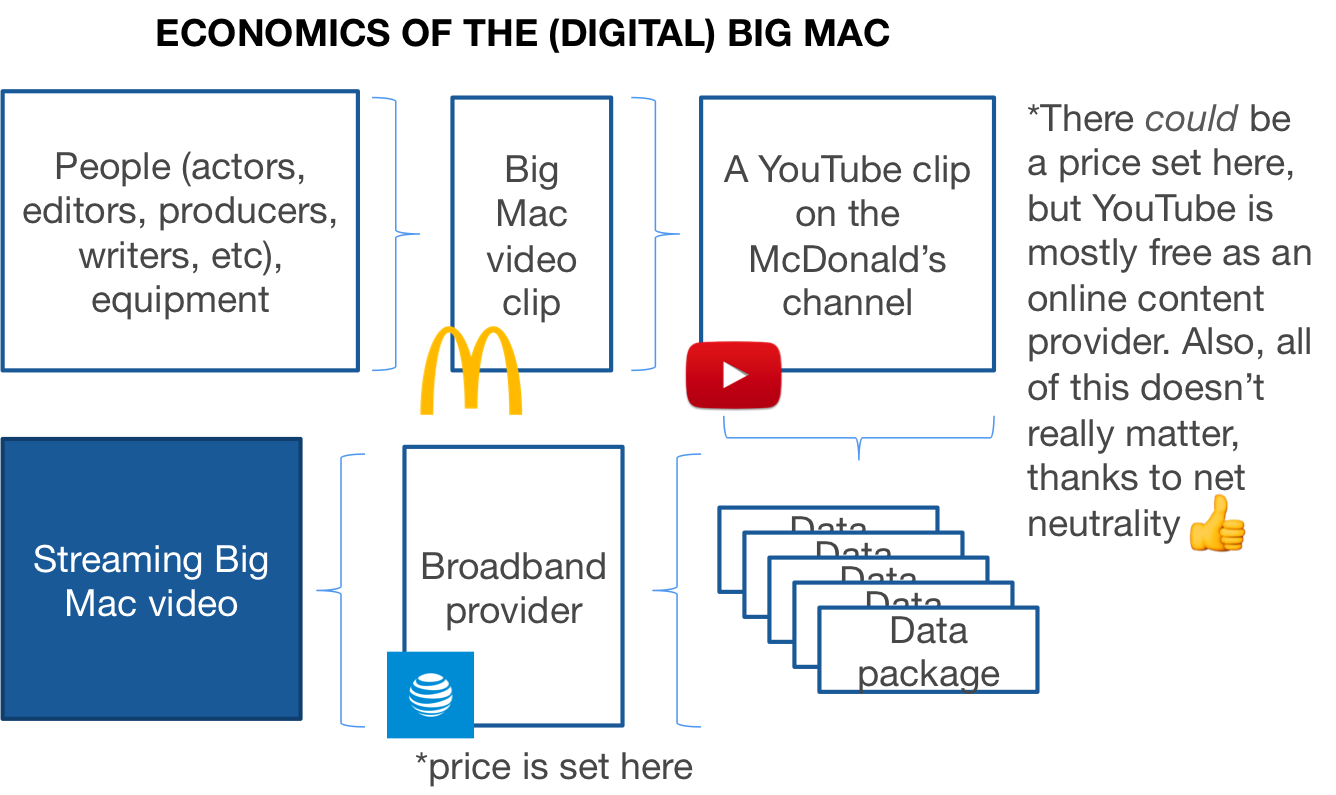
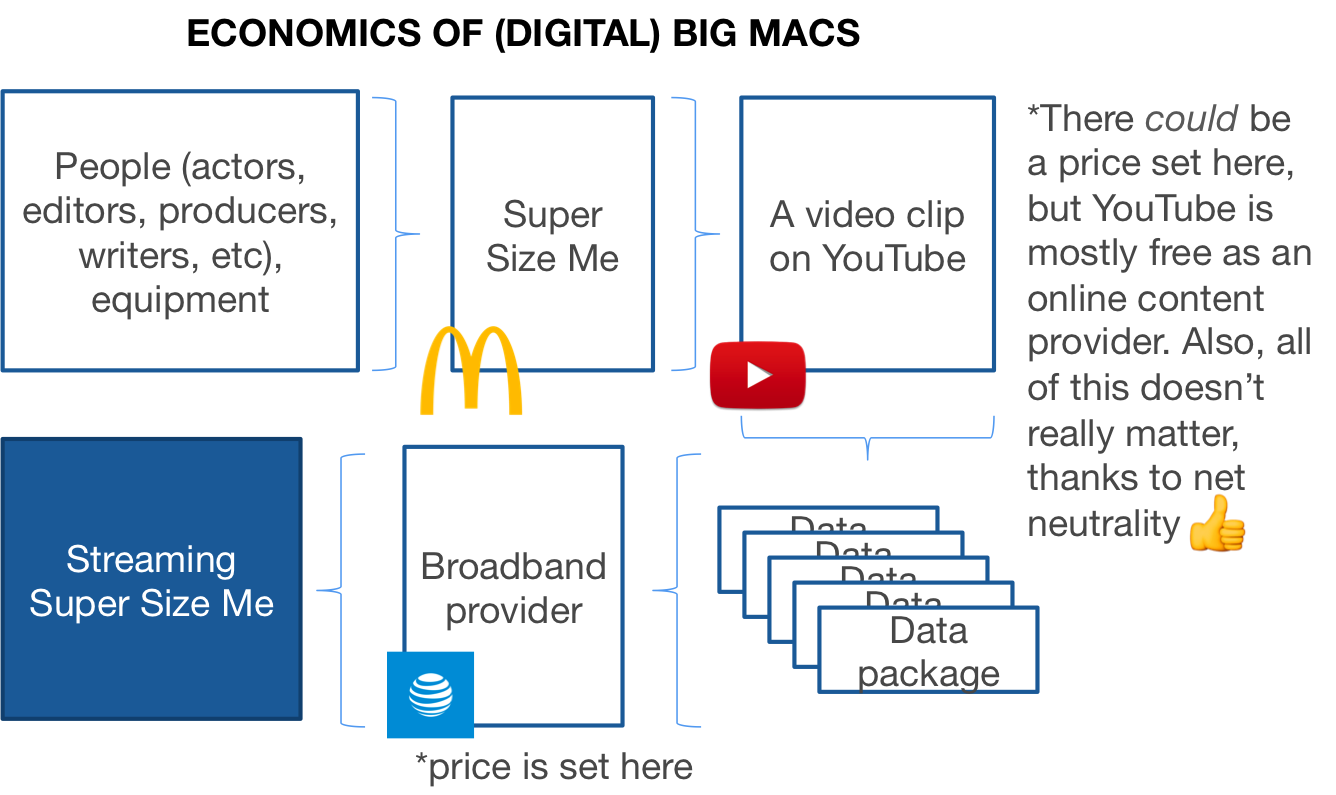
updated infographic, map, some text changes

Changed region(s): [[0.3683, 0.1208, 0.7365, 0.5434], [0.0921, 0.0, 0.6751, 0.0604], [0.0307, 0.6642, 0.2148, 0.7849]]

diff --git a/index.html b/index.html
@@ -17,15 +17,15 @@
 		</br>
 
 		<div>
-			<iframe id="datawrapper-chart-vvHjW" src="//datawrapper.dwcdn.net/vvHjW/6/" frameborder="0" allowtransparency="true" allowfullscreen="allowfullscreen" webkitallowfullscreen="webkitallowfullscreen" mozallowfullscreen="mozallowfullscreen" oallowfullscreen="oallowfullscreen" msallowfullscreen="msallowfullscreen" width="100%" height="600"></iframe><script type="text/javascript">var embedDeltas={"100":744.33334,"200":658.33334,"300":642.33334,"400":616.33334,"500":600.33334,"600":600.33334,"700":600.33334,"800":600.33334,"900":600.33334,"1000":600.33334},chart=document.getElementById("datawrapper-chart-vvHjW"),chartWidth=chart.offsetWidth,applyDelta=embedDeltas[Math.min(1000, Math.max(100*(Math.floor(chartWidth/100)), 100))]||0,newHeight=applyDelta;chart.style.height=newHeight+"px";</script>
+			<iframe id="datawrapper-chart-vvHjW" src="//datawrapper.dwcdn.net/vvHjW/7/" frameborder="0" allowtransparency="true" allowfullscreen="allowfullscreen" webkitallowfullscreen="webkitallowfullscreen" mozallowfullscreen="mozallowfullscreen" oallowfullscreen="oallowfullscreen" msallowfullscreen="msallowfullscreen" width="100%" height="600"></iframe><script type="text/javascript">var embedDeltas={"100":988.33334,"200":734.33334,"300":673.33334,"400":631.33334,"500":616.33334,"600":600.33334,"700":600.33334,"800":586.33334,"900":586.33334,"1000":586.33334},chart=document.getElementById("datawrapper-chart-vvHjW"),chartWidth=chart.offsetWidth,applyDelta=embedDeltas[Math.min(1000, Math.max(100*(Math.floor(chartWidth/100)), 100))]||0,newHeight=applyDelta;chart.style.height=newHeight+"px";</script>
 		</div>
 	</br>
 
-		<h3>Why the Big Mac commercial?</h3>
+		<h3>Why Super Size Me, and why "Big Mac index"?</h3>
 
 		<p>Since 1986, The Economist has been publishing what they call the “Big Mac index”. By comparing at the average prices of the Big Mac in different countries’ McDonald locations, and using market exchange rates, the index shows in which countries the Big Mac is overvalued or undervalued. In a light-hearted way, it tests the purchasing-power parity theory, which says that eventually exchange rates should move towards the rate that would equalise the prices of an identical basket of goods and services in any two countries. 
 
-		For our index above, we compare the prices of digitally consuming a 60-s video clip of a Big Mac in countries around the world.</p>
+		<p>For our index above, we compare the prices of digitally consuming <i>Super Size Me</i>, a documentary about a man who only ate from McDonald's menu for an entire month. </p>
 
 		<h3>Where does this comparison fall apart?</h3>
 
@@ -62,8 +62,7 @@
 		Assumptions and sources
 		<ul class="hanging_indent">
 			<li>All of the mobile-broadband pricing data comes from the ITU. They are 2014 average prices, postpaid, handset-based, 500MB. More details on this can be found in the ITU's Measuring the Information Society Report</li>
-			<li>We follow the UN’s grouping of countries by “developing”, “least developed”, and “developed”</li>
-			<li>Smartphone penetration data comes from the Pew Research Center</li>
+			<li>We follow the UN’s grouping of countries by “developing”, “least developed”, “developed”, and "economies in transition"</li>
 			<li>GDP and GNI data come from the World Bank. They are also 2014 data</li>
 		</ul>
 		</div>
